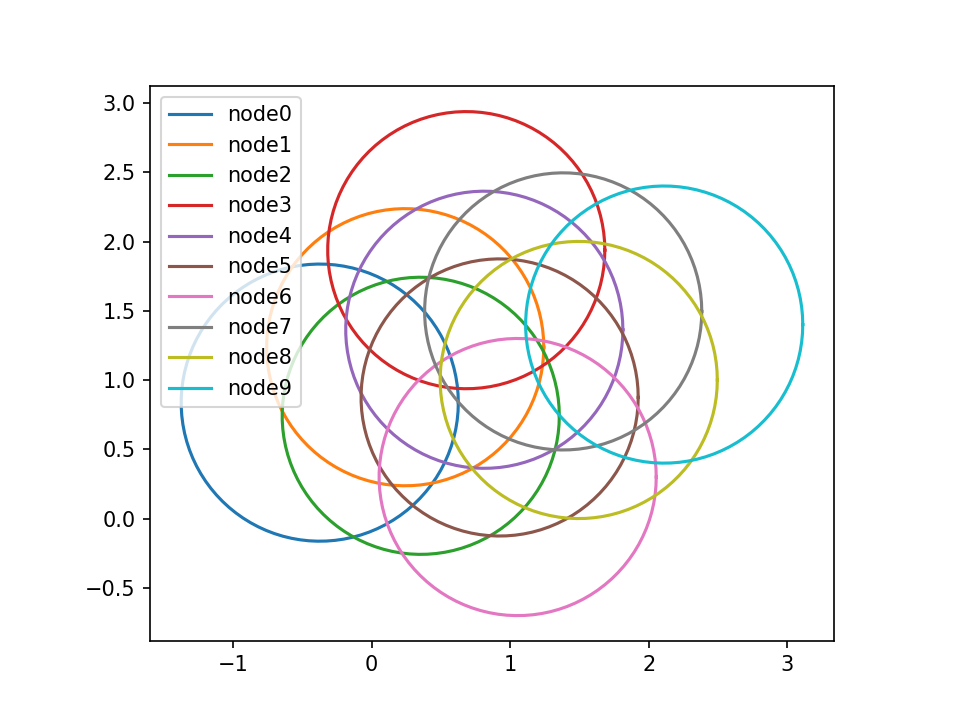
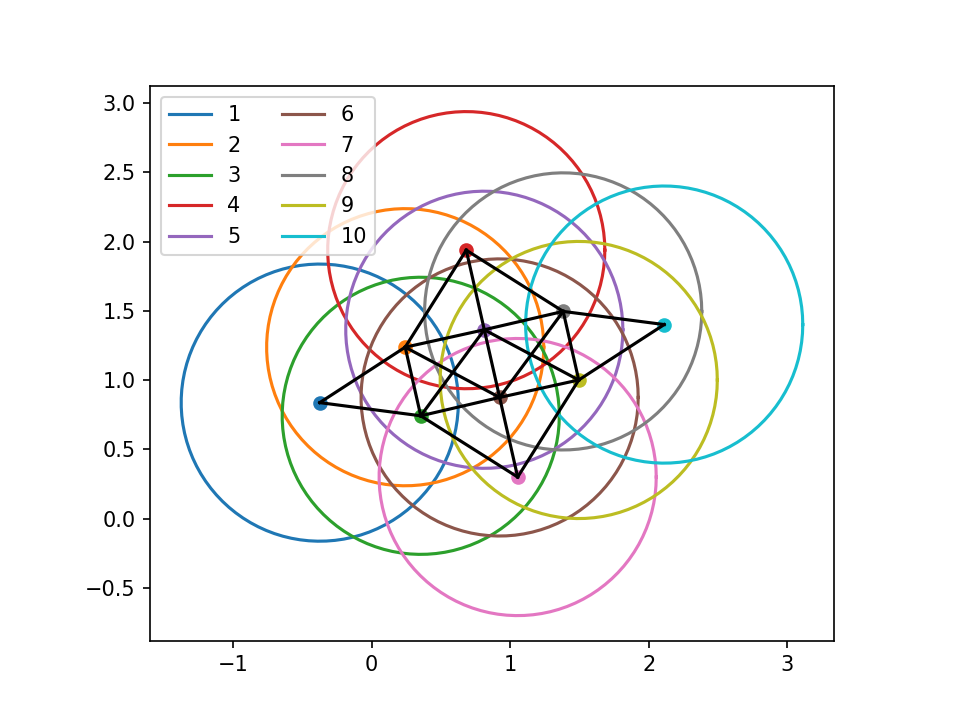
hw7 revised

Changed region(s): [[0.1562, 0.1222, 0.7188, 0.6722]]

diff --git a/courseworks/week7/xuanzhaogao/plot.py b/courseworks/week7/xuanzhaogao/plot.py
@@ -3,15 +3,30 @@ import matplotlib.pyplot as plt
 
 best_x = [-0.37354377570439323, 0.8379216308295349, 0.24309099431276804, 1.2378621542600936, 0.3552623814205562, 0.7428824430541134, 0.6837170659648447, 1.938135055810309, 0.8138713932381817, 1.3638018591988728, 0.924572957832151, 0.8753080473134458, 1.0547272851055045, 0.3009748507020766, 1.3831819696496568, 1.4962274634583885, 1.495353356757569, 1.0012477522524468, 2.111988126774288, 1.4011882756837912]
 
+E = [(1, 2), (1, 3),
+	(2, 3), (2, 4), (2, 5), (2, 6),
+	(3, 5), (3, 6), (3, 7),
+	(4, 5), (4, 8),
+	(5, 6), (5, 8), (5, 9),
+	(6, 7), (6, 8), (6, 9),
+	(7,9), (8, 9), (8, 10), (9, 10)]
+
 theta = np.linspace(0, 2 * np.pi, 100)
 x_0 = np.cos(theta)
 y_0 = np.sin(theta)
 
 plt.figure(dpi = 150)
 for i in range(10):
+    plt.scatter(best_x[2 * i], best_x[2 * i + 1])
     x_i = best_x[2 * i] + x_0
     y_i = best_x[2 * i + 1] + y_0
-    plt.plot(x_i, y_i, label = 'node' + str(i))
-plt.legend()
+    plt.plot(x_i, y_i, label = str(i + 1))
+
+for i in range(10):
+    for j in range(i, 10):
+        if (i + 1, j + 1) in E:
+            plt.plot([best_x[2 * i], best_x[2 * j]], [best_x[2 * i + 1], best_x[2 * j + 1]], 'black')
+
+plt.legend(ncol = 2)
 plt.gca().set_aspect(1)
 plt.savefig('unit_disk_py.png')
